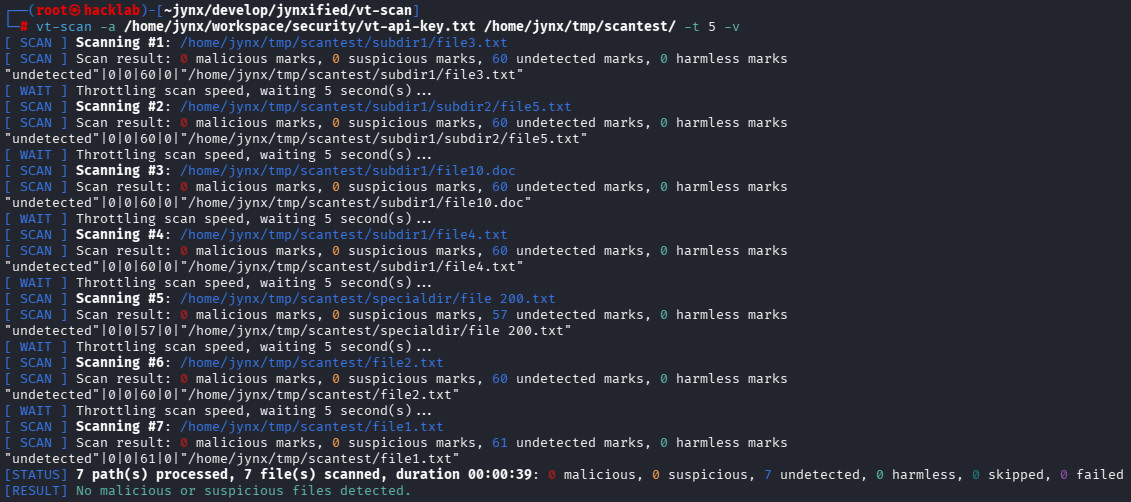
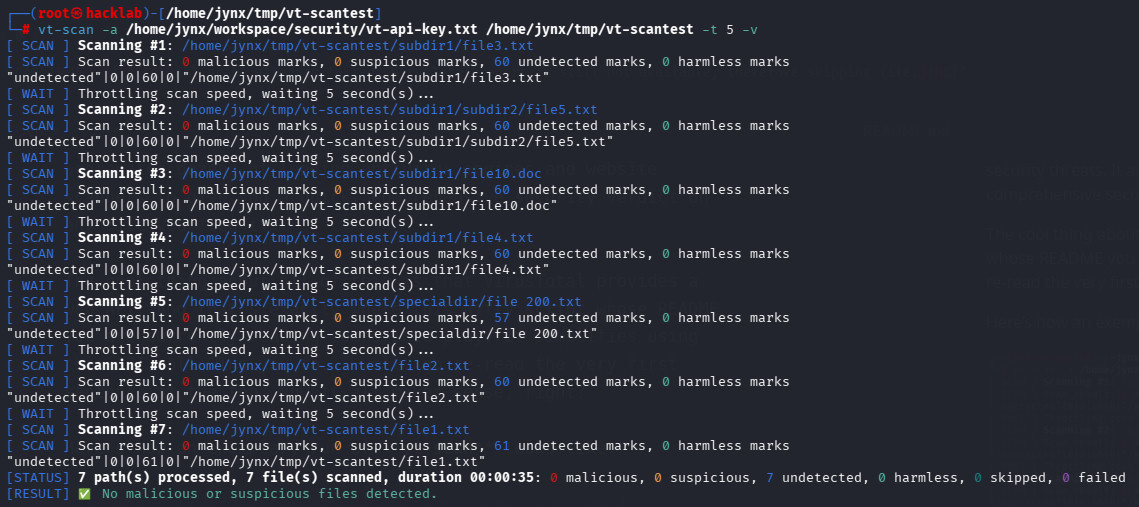
Option '-s|--stop-on-match' added.

Changed region(s): [[0.0, 0.0, 1.0, 0.9861]]

diff --git a/README.md b/README.md
@@ -6,7 +6,7 @@
                    \ V /| |_       \__ \ (_| (_| | | | |
                     \_/  \__|      |___/\___\__,_|_| |_|
 
-                      ::: Version 1.0.0 | @Jynx :::
+                      ::: Version 1.1.0 | @Jynx :::
                
  Mail_                 GitHub_                        BLOG_
  jynxified@proton.me | https://github.com/jynxified | https://jynxified.wordpress.com
@@ -14,7 +14,7 @@
 ```
 
 # ## vt-scan
-**vt-scan** is a Bash script designed to easily check individual files or entire directories for malware using the **VirusTotal web API**.
+**vt-scan** is a Bash script designed to easily check individual files or entire directories for malware using the **VirusTotal™ web API**.
 
 In case you are scratching your head wondering, "What on earth is VirusTotal?", it begs the question of why you are reading this README in the first place. But hey, don't worry, I'm here to help.
 
@@ -36,6 +36,12 @@ Here's how an exemplary run of **vt-scan** looks like:
 - **Almost feels like cheating:** Supports wildcards and directory paths, allowing you to scan multiple files all at once without the need of specifying them one by one.
 - **Slow down, cowboy:** Includes built-in request throttling to artificially delay scans, helping you stay safely within VirusTotal’s daily or per-minute API caps. (Yes, there are limits! See [here](https://docs.virustotal.com/reference/public-vs-premium-api) for more information.)
 - **That comes in handy:** Outputs data in CSV format, making it effortless to parse and process.
+
+## ## What's new in Version 1.1.0?
+
+Step right up, folks, don't be shy! Get your hands on the freshest, absolute best features on the entire planet.
+
+* **Work-life balance:** The new `-s|--stop-on-match` option stops scanning the moment a hit is found. That way, you can immediately start panicking and running around in circles.
 
 ## ## Prerequisites
 
@@ -164,6 +170,20 @@ Example:
 
 ```
 vt-scan -a ./myAPIkey.txt -m 7 ./somedir/
+```
+
+#### Stop scanning on first match
+
+```
+-s, --stop-on-match
+```
+
+This option tells the scan to stop immediately on the first match (suspicious or malicious). If you omit it, **vt-scan** will still report any matches, but it won't stop until it has scanned every single file you passed to it.
+
+Example:
+
+```
+vt-scan -a ./myAPIkey.txt -s someFile.exe
 ```
 
 #### Activating Debug mode
@@ -296,7 +316,12 @@ As I said: in the end, all of this can mean everything and nothing. What's cruci
 
 Of course the author (me again), too, assumes no liability whatsoever for any results provided by VirusTotal or this script, nor for any consequences arising from them. Both, VirusTotal and this script, merely offer hints as to whether a file might contain malware or not. Conversely, this doesn't mean you can blindly trust every "YouAreDoomed.exe" or binary from shady sources. You still need to keep your brain turned on. If you don't, you alone bear the consequences.
 
-Ah, and by the way: I have no affiliation—business, personal, gambling-debt-related, or involving embarrassing photos—with VirusTotal. I wrote this script simply because I wanted one. It makes my life easier. And hopefully your's too. End of story.
+By the way: I have no affiliation—business, personal, gambling-debt-related, or involving embarrassing photos—with VirusTotal. I wrote this script simply because I wanted one. It makes my life easier. And hopefully your's too. End of story.
+
+And just to keep all those overpaid, underworked lawyers of the world happy, here’s the ultra-serious version of what I literally just said:
+
+This program is independent software and is not affiliated with, endorsed by, or sponsored by VirusTotal or its parent company, Chronicle Security Ireland Limited (a subsidiary of Alphabet Inc.). VirusTotal is a registered trademark of Chronicle Security Ireland Limited. This program merely utilizes the official VirusTotal API to provide its functionality.
+
 
 ## ## License
 
@@ -322,4 +347,5 @@ Also, check out my BLOG for news about Cybersecurity, Security Vulnerabilities, 
 
 ## ## History
 
+* **1.1.0 (2026-10-04):** Option "-s|--stop-on-match" added.
 * **1.0.0 (2026-07-26):** Initial version.
